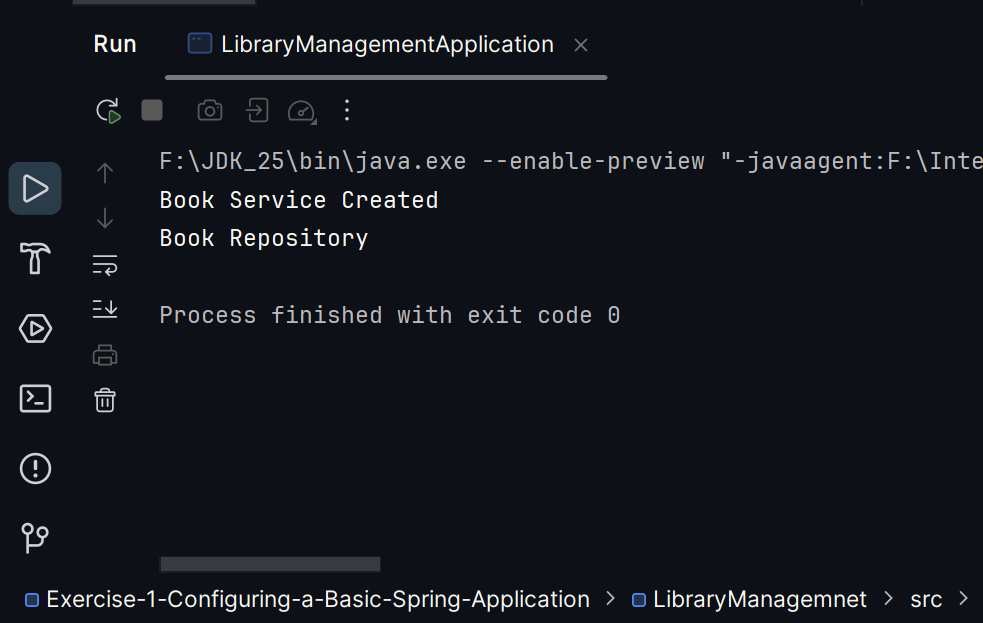
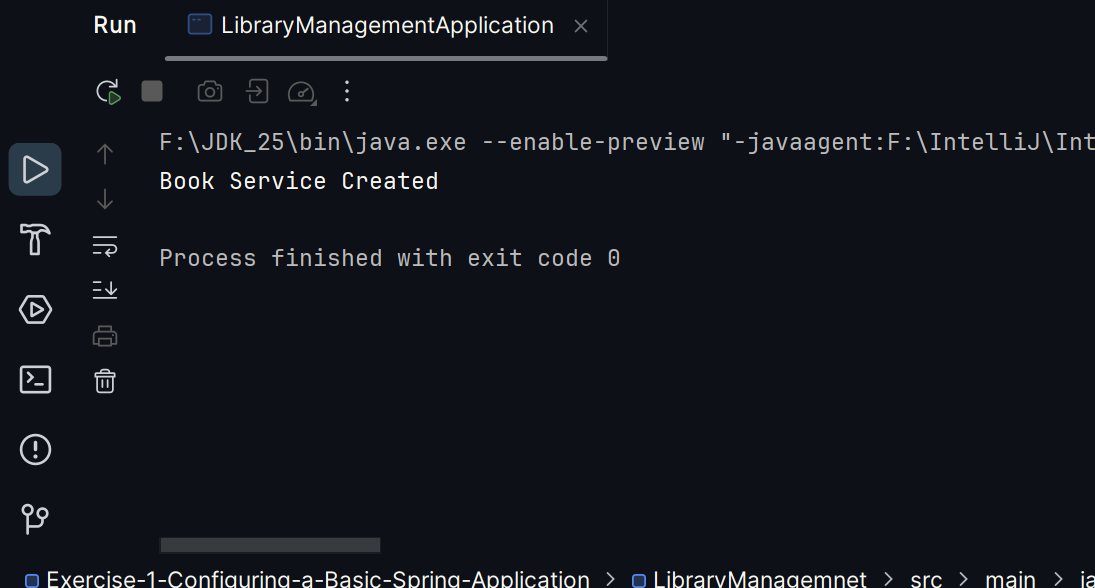
final output

diff --git a/Week-2/Spring-Core-Maven/Exercise-1-Configuring-a-Basic-Spring-Application/LibraryManagemnet/src/main/java/com/library/service/BookService.java b/Week-2/Spring-Core-Maven/Exercise-1-Configuring-a-Basic-Spring-Application/LibraryManagemnet/src/main/java/com/library/service/BookService.java
@@ -4,16 +4,8 @@ import com.library.repository.BookRepository;
 
 public class BookService {
 
-    private BookRepository repository;
-
-    public void setRepository(BookRepository repository){
-
-        this.repository = repository;
-    }
-
     public void displayService(){
 
         System.out.println("Book Service Created");
-        repository.displayRepository();
     }
 }